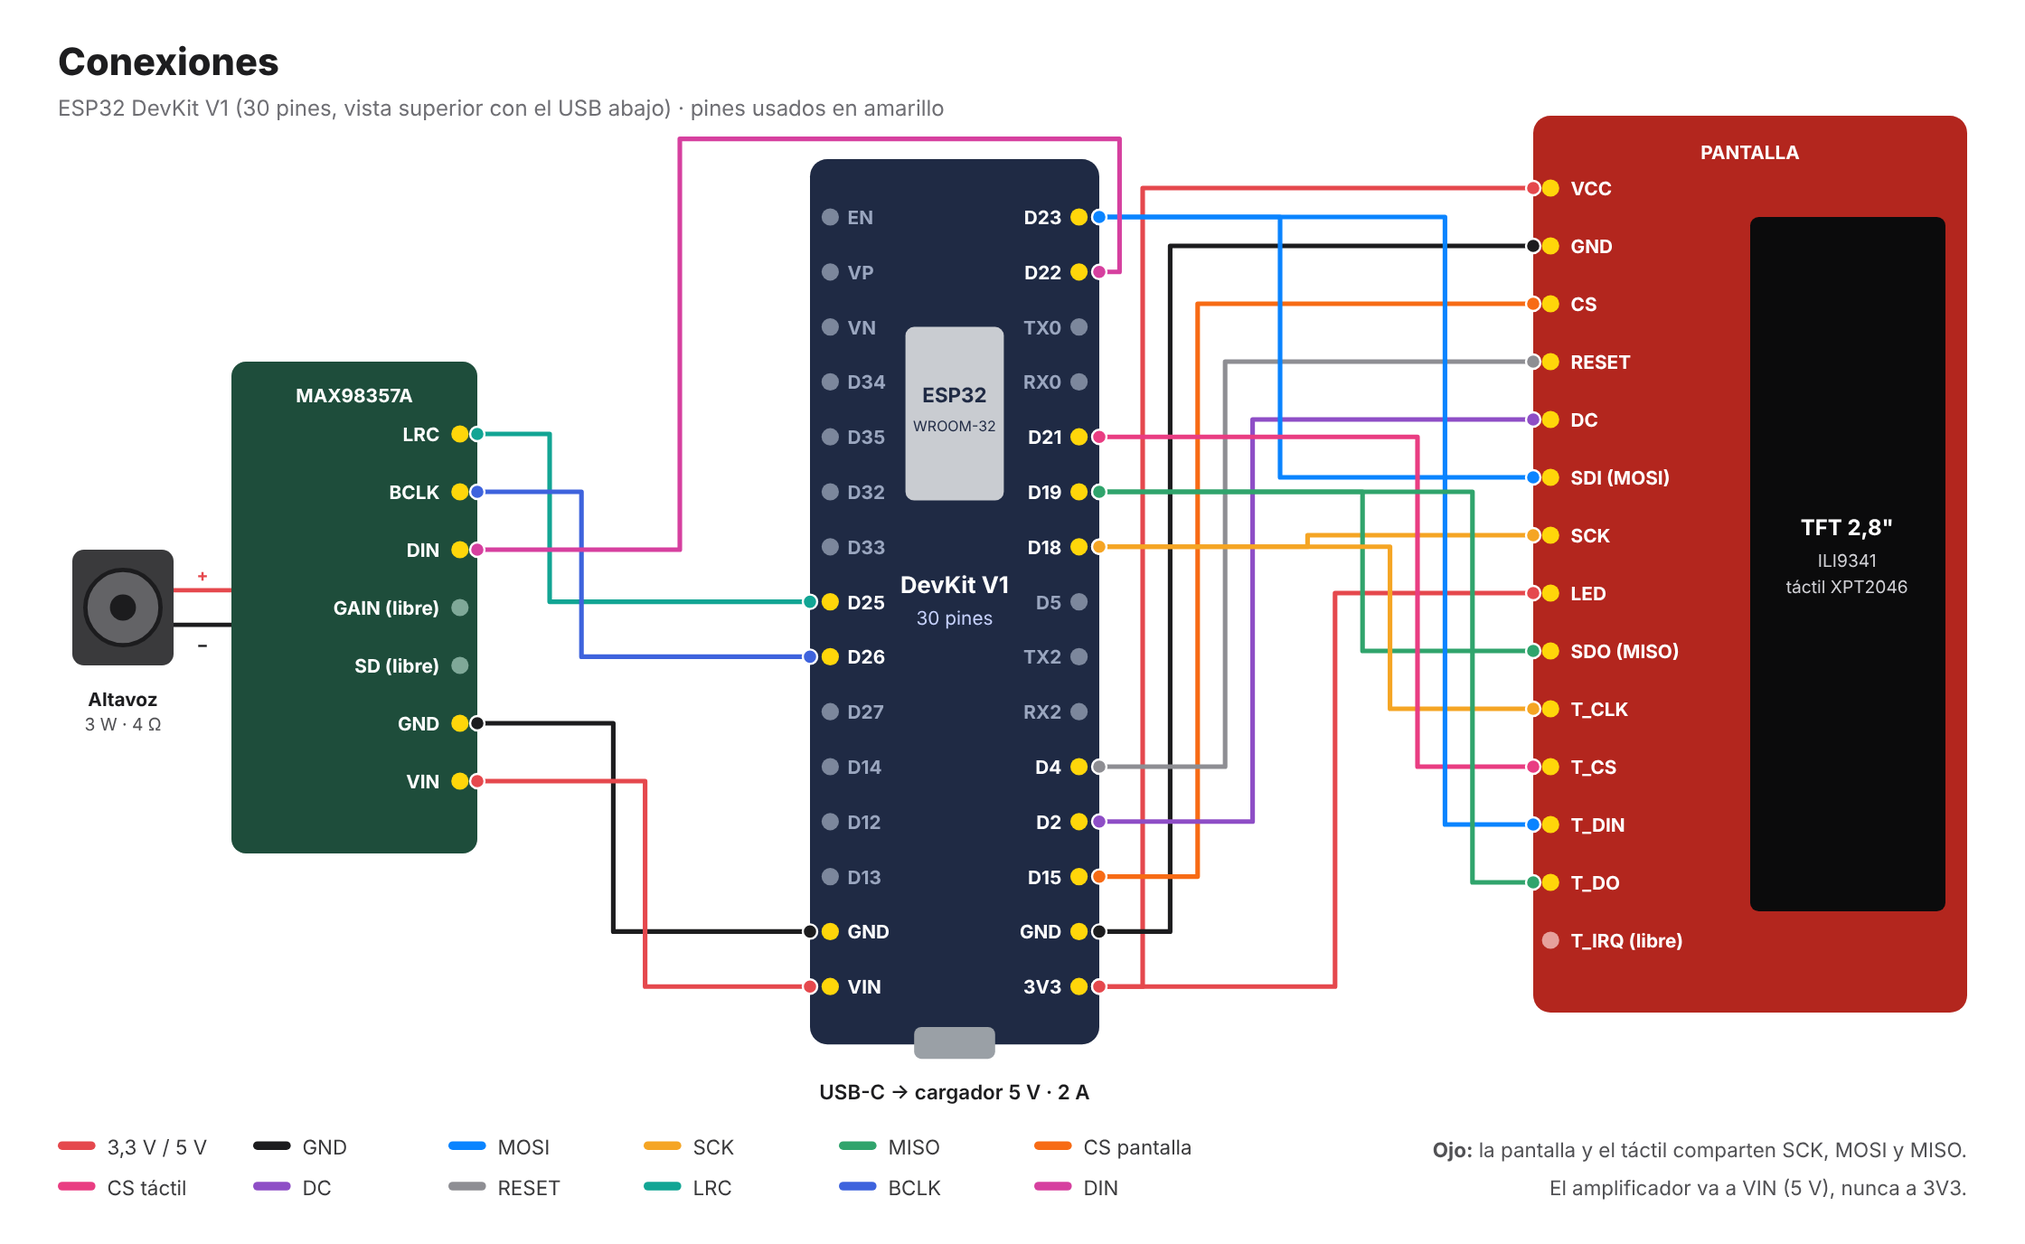
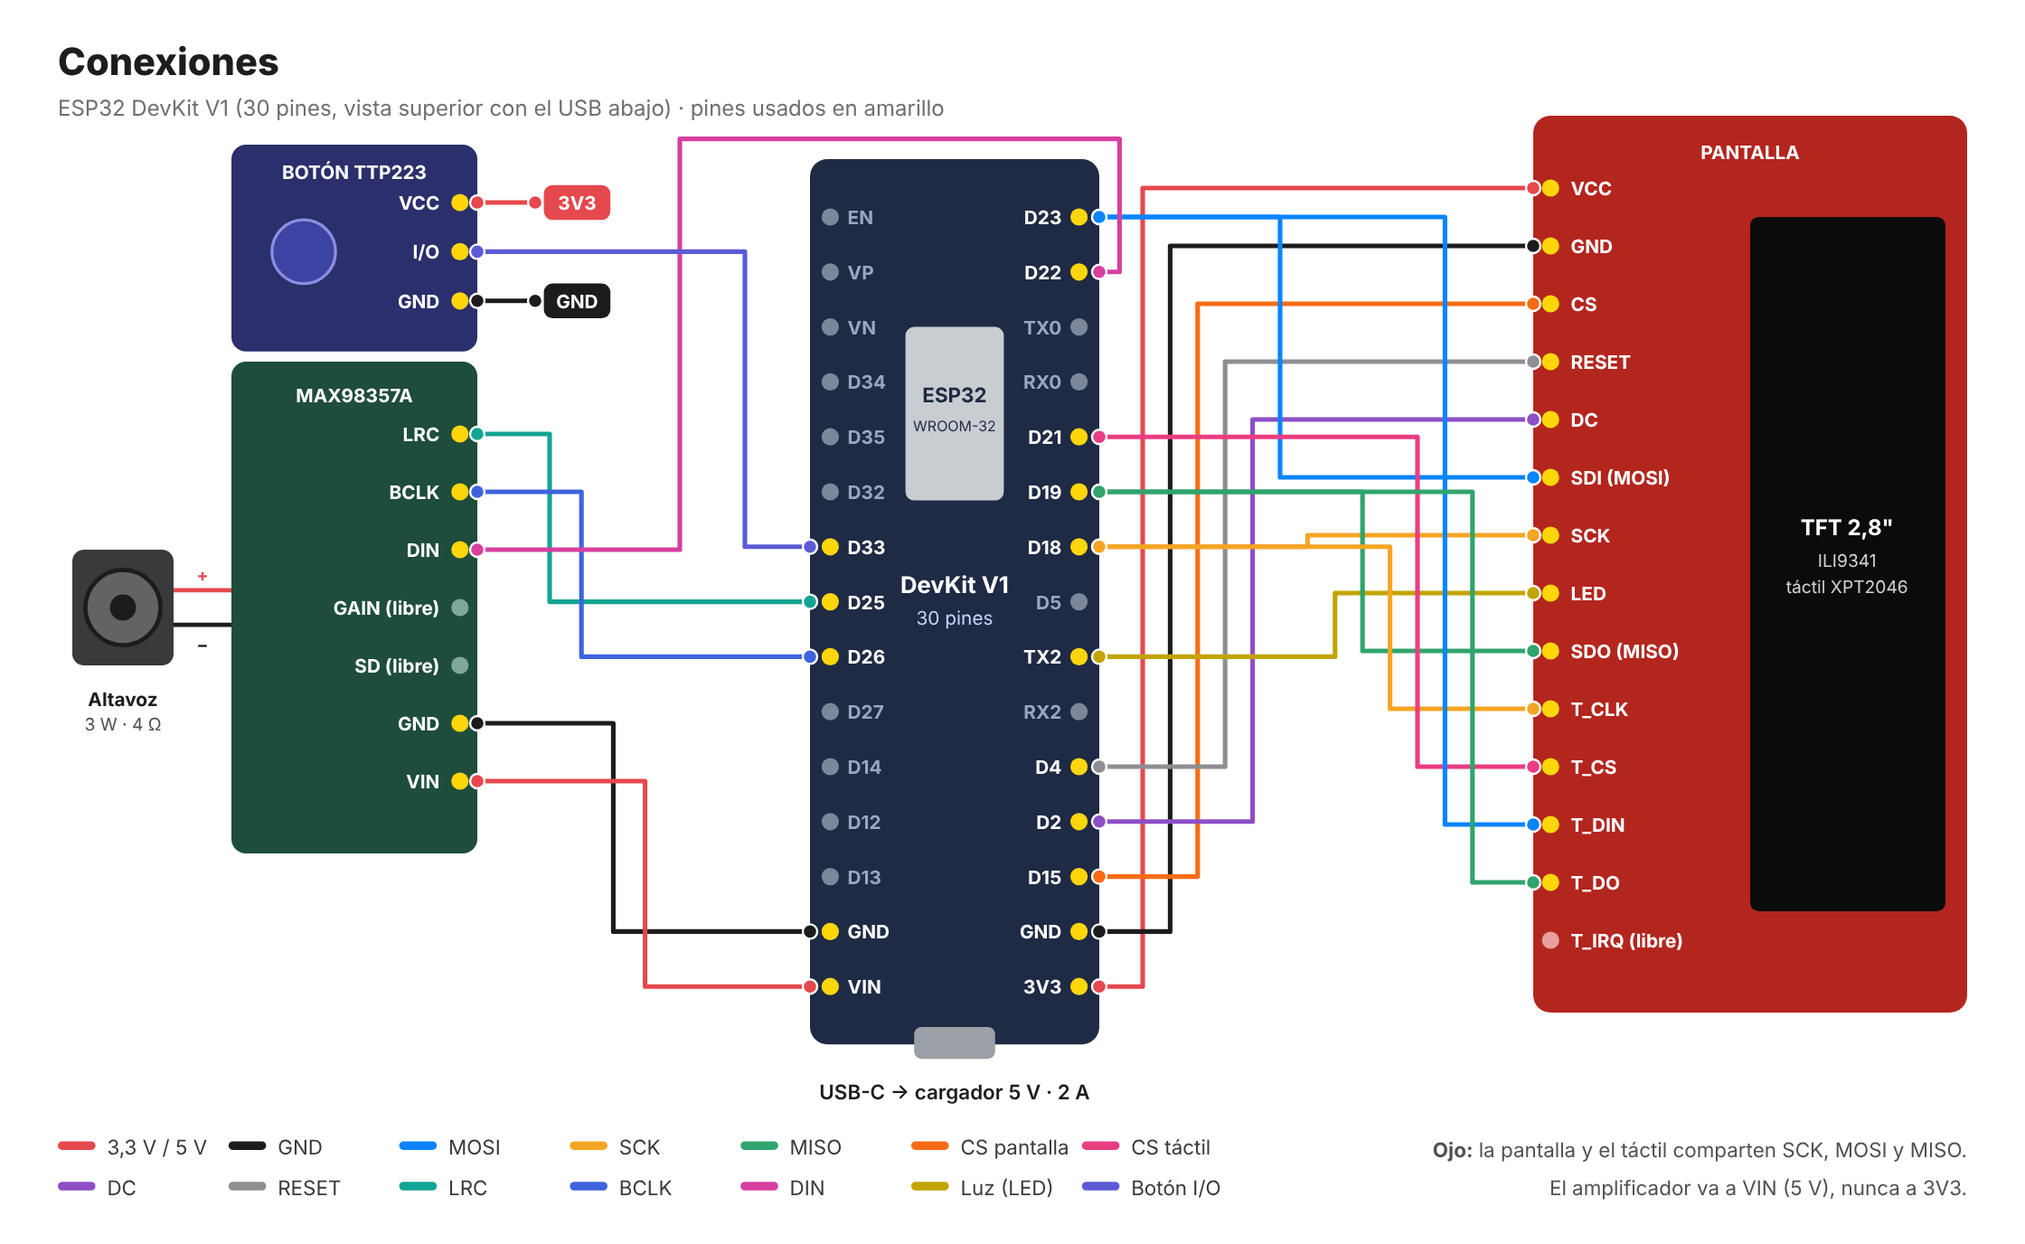
Modo noche y botón TTP223: la pantalla se apaga de 23:00 a 07:00, se enciende al tocarla o con el botón

diff --git a/server/simulador/sim.js b/server/simulador/sim.js
@@ -39,6 +39,7 @@
   const FW = {
     busDelay: 20000, timeDelay: 10000, touchCooldown: 500,
     wifiRetryDelay: 10000, avisoDelay: 4000, avisoBanner: 60000, httpTimeout: 6000,
+    nocheDesde: 2300, nocheHasta: 700, despierta: 30000,   // config.h: NOCHE_DESDE, NOCHE_HASTA, DESPIERTA_S
   };
   // Colores del firmware (tft.color565)
   const C = {
@@ -81,6 +82,7 @@
       this.lastWifiTry = now; this.lastAvisoCheck = now;
       this.ultimoAvisoId = ''; this.avisoTexto = ''; this.avisoHasta = 0;
       this.busy = false; this.avisoBusy = false; this.wifiPerdido = false;
+      this.pantallaOn = true; this.forzado = 0; this.nocheAnterior = false; this.despiertaHasta = 0;
       this.mensajeCentral('Conectando WiFi...', C.WHITE);
       log('Arranque: conectando WiFi');
     }
@@ -263,8 +265,53 @@
       this.net.backend.reproducir(ruta, doc);
     }
 
+    // ---- luz de la pantalla: modo noche y botón TTP223 (revisarLuz del firmware)
+    esNoche() {
+      const [h, m] = hhmm(Clock.now()).split(':').map(Number);
+      const t = h * 100 + m, a = FW.nocheDesde, b = FW.nocheHasta;
+      return a <= b ? t >= a && t < b : t >= a || t < b;
+    }
+    pantallaDeseada() {
+      if (this.avisoActivo()) return true;           // un aviso siempre se ve
+      if (this.forzado !== 0) return this.forzado > 0;
+      if (!this.esNoche()) return true;
+      return this.despiertaHasta !== 0 && Clock.now() < this.despiertaHasta;
+    }
+    encenderPantalla(on) {
+      if (on === this.pantallaOn) return;
+      this.pantallaOn = on;
+      log(on ? 'Pantalla encendida' : 'Pantalla apagada');
+      this.rect(0, 0, 320, 240, C.BG);
+      if (!on) return;
+      if (this.wifi) this.fetchBusData(); else this.drawSinWifi(true);
+      this.drawClock();
+      this.lastBusUpdate = Clock.now();
+    }
+    revisarLuz() {
+      if (this.state !== 'run') return;
+      const noche = this.esNoche();
+      if (noche !== this.nocheAnterior) { this.nocheAnterior = noche; this.forzado = 0; }
+      if (this.despiertaHasta !== 0 && Clock.now() >= this.despiertaHasta) this.despiertaHasta = 0;
+      this.encenderPantalla(this.pantallaDeseada());
+    }
+    boton() {   // toque en el TTP223
+      if (this.state !== 'run') return;
+      this.forzado = this.pantallaOn ? -1 : 1;
+      this.despiertaHasta = 0;
+      log(`Botón: ${this.forzado > 0 ? 'encender' : 'apagar'}`);
+      this.revisarLuz();
+    }
+
     touch(x) {
       if (this.state !== 'run' || Clock.now() - this.lastTouchTime <= FW.touchCooldown) return;
+      if (!this.pantallaOn) {   // con la pantalla apagada, el toque solo la enciende
+        this.lastTouchTime = Clock.now();
+        if (this.forzado < 0) this.forzado = 0;
+        this.despiertaHasta = Clock.now() + FW.despierta;
+        log('Toque con la pantalla apagada: se enciende 30 s');
+        this.revisarLuz();
+        return;
+      }
       const n = this.paradas.length; if (!n) return;
       const derecha = x > 160;
       this.paradaActual = derecha ? (this.paradaActual + 1) % n : (this.paradaActual - 1 + n) % n;
@@ -293,22 +340,23 @@
       }
       // WiFi caído: aviso en pantalla y reintento cada 10 s sin bloquear
       if (this.wifi && !wifiUp) { this.wifi = false; log('WiFi perdido', 'bad'); }
-      if (!this.wifi && !this.wifiPerdido) { this.wifiPerdido = true; this.drawSinWifi(); }
+      this.revisarLuz();
+      if (!this.wifi && !this.wifiPerdido) { this.wifiPerdido = true; if (this.pantallaOn) this.drawSinWifi(); }
       if (!this.wifi && now - this.lastWifiTry > FW.wifiRetryDelay) {
         this.lastWifiTry = now;
         if (wifiUp) { this.wifi = true; log('WiFi reconectado', 'good'); } else log('Reintentando WiFi...');
       }
-      if (this.wifi && this.wifiPerdido) { this.wifiPerdido = false; this.fetchBusData(); this.lastBusUpdate = now; }
+      if (this.wifi && this.wifiPerdido) { this.wifiPerdido = false; if (this.pantallaOn) this.fetchBusData(); this.lastBusUpdate = now; }
       if (now - this.lastBusUpdate > FW.busDelay) {
-        if (this.wifi) this.fetchBusData();
+        if (this.pantallaOn && this.wifi) this.fetchBusData();
         this.lastBusUpdate = now;
       }
-      if (now - this.lastTimeUpdate > FW.timeDelay) { this.drawClock(); this.lastTimeUpdate = now; }
+      if (now - this.lastTimeUpdate > FW.timeDelay) { if (this.pantallaOn) this.drawClock(); this.lastTimeUpdate = now; }
       if (this.wifi && now - this.lastAvisoCheck > FW.avisoDelay) { this.checkAviso(); this.lastAvisoCheck = now; }
       if (this.avisoHasta !== 0 && now >= this.avisoHasta) {
         this.avisoHasta = 0;
         this.borrarBanner();
-        if (this.wifi) this.fetchBusData();
+        if (this.pantallaOn && this.wifi) this.fetchBusData();
         this.lastBusUpdate = now;
       }
     }
@@ -667,6 +715,7 @@
   });
   $('tapL').addEventListener('click', () => device.touch(60));
   $('tapR').addEventListener('click', () => device.touch(260));
+  $('boton').addEventListener('click', () => device.boton());
 
   for (const el of document.querySelectorAll('input[name="mode"]')) el.addEventListener('change', () => setMode(el.value));
   for (const el of document.querySelectorAll('input[name="speed"]')) {
@@ -762,6 +811,10 @@
     $('stWifi').dataset.ok = device.wifi ? '1' : '0';
     $('stNext').textContent = device.state === 'run' ? `${Math.ceil(device.nextRefreshIn() / 1000)} s` : '—';
     $('stStop').textContent = device.paradas.length ? device.paradas[device.paradaActual] : '—';
+    const apagada = device.state === 'run' && !device.pantallaOn;
+    $('stLuz').textContent = device.state !== 'run' ? '—' : apagada ? (device.esNoche() ? 'apagada (noche)' : 'apagada (botón)')
+      : device.despiertaHasta ? `encendida ${Math.ceil((device.despiertaHasta - Clock.now()) / 1000)} s` : 'encendida';
+    $('apagada').hidden = !apagada;
     $('stAviso').textContent = device.avisoActivo() ? `banner ${Math.ceil((device.avisoHasta - Clock.now()) / 1000)} s` : 'ninguno';
   }
   setInterval(frame, 50);

diff --git a/server/simulador/index.html b/server/simulador/index.html
@@ -28,6 +28,7 @@
           <canvas id="tft" width="960" height="720" role="img" aria-label="Pantalla TFT de 320 por 240 píxeles. Pulsa a la izquierda o a la derecha para cambiar de parada."></canvas>
           <span class="half l" aria-hidden="true">◀</span><span class="half r" aria-hidden="true">▶</span>
           <span id="ripple" aria-hidden="true"></span>
+          <span id="apagada" hidden>Pantalla apagada · tócala para encenderla</span>
         </div>
       </div>
       <span class="label" aria-hidden="true">ILI9341 · 320×240</span>
@@ -38,11 +39,13 @@
       <button class="btn" id="tapL" type="button">◀ Toque izquierda</button>
       <button class="btn" id="tapR" type="button">Toque derecha ▶</button>
     </div>
+    <button class="btn" id="boton" type="button">● Botón TTP223 <small>(apaga o enciende la pantalla)</small></button>
 
     <dl class="status">
       <div><dt>WiFi</dt><dd id="stWifi">conectando</dd></div>
       <div><dt>Parada</dt><dd id="stStop">—</dd></div>
       <div><dt>Próximo refresco</dt><dd id="stNext">—</dd></div>
+      <div><dt>Pantalla</dt><dd id="stLuz">—</dd></div>
       <div><dt>Aviso</dt><dd id="stAviso">ninguno</dd></div>
       <div><dt>Datos</dt><dd id="stSource">Demo simulada</dd></div>
     </dl>
@@ -115,6 +118,11 @@
         <label class="check" for="ruleOn"><input type="checkbox" id="ruleOn" checked>Avisos activos</label>
       </div>
       <p class="hint">Igual que <code>server/avisos.py</code>: suena cuando llegada − minutos andando cae entre −30 s y +60 s, una sola vez por autobús. Aquí no se aplican la franja horaria ni el silencio nocturno.</p>
+    </section>
+
+    <section>
+      <h2>Modo noche</h2>
+      <p class="hint">De 23:00 a 07:00 la pantalla se apaga sola. Tocarla la enciende 30 s (sin cambiar de parada). El botón TTP223 la apaga o enciende cuando quieras, hasta el siguiente cambio de día a noche. Un aviso de salida siempre la enciende. En la demo, usa +5 min o ×60 para llegar a las 23:00.</p>
     </section>
 
     <section>

diff --git a/server/simulador/sim.css b/server/simulador/sim.css
@@ -66,6 +66,10 @@ h1 { font: 700 clamp(30px, 5vw, 44px)/1 var(--font-display); letter-spacing: .01
 #ripple { position: absolute; width: 46px; height: 46px; margin: -23px 0 0 -23px; border-radius: 50%; border: 2px solid rgb(255 255 255 / .7); opacity: 0; pointer-events: none; }
 #ripple.on { animation: ripple .45s ease-out; }
 @keyframes ripple { from { transform: scale(.3); opacity: 1; } to { transform: scale(1.4); opacity: 0; } }
+#apagada { position: absolute; inset: 0; display: grid; place-items: center; padding: 16px; text-align: center; font: 600 13px/1.4 var(--font-mono); color: rgb(255 255 255 / .38); pointer-events: none; }
+#apagada[hidden] { display: none; }
+#boton { justify-self: start; }
+#boton small { font-weight: 400; opacity: .75; }
 .half { position: absolute; top: 6px; font: 600 11px/1 var(--font-mono); color: rgb(255 255 255 / .28); pointer-events: none; }
 .half.l { left: 8px; } .half.r { right: 8px; }
 

diff --git a/firmware/dashboard_emt/config.h b/firmware/dashboard_emt/config.h
@@ -16,3 +16,14 @@
 
 // Pines (ver docs de cableado en el README)
 // Pantalla: CS 15, DC 2, RST 4, táctil CS 21 · Audio I2S: BCLK 26, LRC 25, DIN 22
+
+// Luz de la pantalla y botón táctil TTP223 (ver docs/MONTAJE.md)
+#define PIN_LUZ    17    // pin LED de la pantalla (TX2 en la placa); -1 si sigue a 3V3
+#define PIN_BOTON  33    // salida I/O del TTP223 (D33); -1 si no lo montas
+
+// Modo noche: la pantalla se apaga sola en esta franja (HHMM, hora de Madrid).
+// Tocar la pantalla la enciende DESPIERTA_S segundos; el botón la enciende o
+// apaga cuando quieras (hasta el siguiente cambio de día a noche o al revés).
+#define NOCHE_DESDE 2300
+#define NOCHE_HASTA 700
+#define DESPIERTA_S 30

diff --git a/docs/MONTAJE.md b/docs/MONTAJE.md
@@ -2,7 +2,7 @@
 
 Del paquete de componentes a la pantalla funcionando en la carcasa. Tiempo estimado: **2-3 horas** la primera vez.
 
-<p align="center"><img src="img/conexiones.png" alt="Diagrama de conexiones: ESP32, pantalla TFT y amplificador MAX98357A" width="100%"></p>
+<p align="center"><img src="img/conexiones.png" alt="Diagrama de conexiones: ESP32, pantalla TFT, amplificador MAX98357A y botón TTP223" width="100%"></p>
 
 ---
 
@@ -16,6 +16,7 @@ Precios orientativos en España (octubre de 2026). En AliExpress suelen salir a 
 | ☐ | **Pantalla TFT 2,8" táctil** | 1 | "TFT 2.8 SPI ILI9341 **XPT2046** touch", la placa roja de 14 pines (≈ 86 × 50 mm). Que diga **ILI9341** y **XPT2046** | 10-12 € |
 | ☐ | **Amplificador I2S MAX98357A** | 1 | "MAX98357A I2S amplificador 3W". Suele venir con los pines **sin soldar** | 4-7 € |
 | ☐ | **Altavoz** | 1 | "Altavoz 3W 4 ohm 40 mm" (o 28-50 mm según el hueco de la carcasa) | 2-4 € |
+| ☐ | Botón táctil **TTP223** (opcional) | 1 | "TTP223 módulo táctil capacitivo". Para apagar y encender la pantalla | 1-2 € |
 | ☐ | **Cables Dupont hembra-hembra** | 1 pack | 20 cm, pack de 40 (sobran) | 3-5 € |
 | ☐ | **Cargador USB 5 V · 2 A + cable USB-C de datos** | 1 | El cable tiene que ser **de datos**, no solo de carga (para programar) | 0-10 € |
 | ☐ | Servidor (Radxa ROCK 3C / Raspberry Pi) | 1 | Cualquier Linux siempre encendido en tu red. **No hace falta con la opción B** (Cloudflare, gratis) | ya lo tienes / 0 € |
@@ -55,13 +56,15 @@ Son 13 cables. La pantalla y el táctil **comparten** reloj y datos (SCK, MOSI, 
 | 5 | DC | → | D2 | morado |
 | 6 | SDI (MOSI) | → | D23 | azul |
 | 7 | SCK | → | D18 | amarillo |
-| 8 | LED | → | 3V3 | rojo |
+| 8 | LED | → | TX2 (GPIO 17) | amarillo oscuro |
 | 9 | SDO (MISO) | → | D19 | verde |
 | 10 | T_CLK | → | D18 *(compartido con 7)* | amarillo |
 | 11 | T_CS | → | D21 | rosa |
 | 12 | T_DIN | → | D23 *(compartido con 6)* | azul |
 | 13 | T_DO | → | D19 *(compartido con 9)* | verde |
 | — | T_IRQ | | sin conectar | |
+
+> El pin **LED** es la luz de la pantalla. Va a TX2 para que el ESP32 la pueda apagar de noche. Si prefieres que esté siempre encendida, conéctalo a 3V3 y pon `#define PIN_LUZ -1` en `config.h`.
 
 **Comprobación:** conecta el USB. La pantalla debe encenderse y mostrar *"Conectando WiFi..."*. Si se queda en blanco, revisa VCC, GND, CS, DC y RESET.
 
@@ -117,7 +120,28 @@ Volumen: en el firmware, `volumen = 0.6` (de 0.0 a 1.0). Para más potencia cone
 
 ---
 
-## 7. Montar en la carcasa
+## 7. Botón TTP223 y modo noche (opcional)
+
+La pantalla se apaga sola de **23:00 a 07:00** (`NOCHE_DESDE` y `NOCHE_HASTA` en `config.h`). De noche, tocar la pantalla la enciende **30 s** sin cambiar de parada. Un aviso de salida siempre la enciende. Esto funciona sin el botón.
+
+El botón TTP223 es un sensor táctil: se activa con el dedo, incluso a través de una pieza fina de plástico, así que se puede esconder dentro de la carcasa. Cada toque **apaga o enciende la pantalla** cuando quieras. Lo que elijas con el botón dura hasta el siguiente cambio de día a noche (o al revés); después vuelve al modo automático.
+
+| # | TTP223 | → | ESP32 |
+|:-:|---|:-:|---|
+| 1 | VCC | → | 3V3 *(compartido con la pantalla)* |
+| 2 | I/O (o SIG) | → | D33 |
+| 3 | GND | → | GND |
+
+- Con el USB desconectado. Para compartir 3V3 y GND, usa un cable en "Y" o la mini protoboard.
+- **Nunca a VIN (5 V):** la señal I/O iría a 5 V y el ESP32 solo admite 3,3 V.
+- No hay que soldar ni configurar nada en el módulo: de fábrica da un pulso mientras lo tocas, que es lo que espera el firmware.
+- Si no lo montas, déjalo así: el pin tiene una resistencia interna que evita toques fantasma. O pon `#define PIN_BOTON -1`.
+
+**Prueba:** toca el botón. En el Monitor Serie verás `Boton: apagar` y la pantalla se apagará; vuelve a tocarlo para encenderla.
+
+---
+
+## 8. Montar en la carcasa
 
 Medidas para diseñar la carcasa:
 
@@ -126,6 +150,7 @@ Medidas para diseñar la carcasa:
 | Pantalla | 86 × 50 × 9 mm (área visible ≈ 58 × 43 mm) | El marco debe tapar solo el borde rojo, no la zona táctil |
 | ESP32 DevKit | 52 × 28 mm (+ pines) | Detrás de la pantalla, con el **USB accesible** desde fuera |
 | MAX98357A | 18 × 18 mm | Junto al altavoz |
+| TTP223 | 15 × 11 mm | Pegado por dentro de una pared fina de la carcasa (≤ 2 mm), donde quieras "el botón" |
 | Altavoz 40 mm | Ø 40 × 20 mm | Mirando hacia fuera, con una rejilla o huecos entre ladrillos |
 
 - Sujeta las placas con cinta de doble cara o masilla, sin apretar los cables.
@@ -134,7 +159,7 @@ Medidas para diseñar la carcasa:
 
 ---
 
-## 8. Si algo falla
+## 9. Si algo falla
 
 | Síntoma | Causa probable | Solución |
 |---|---|---|
@@ -146,5 +171,7 @@ Medidas para diseñar la carcasa:
 | "Clave incorrecta (API_KEY)" | Opción B: `API_KEY` de `secrets.h` distinta de la del Worker | Copia la clave de nuevo o genera otra con `wrangler secret put API_TOKEN` |
 | "Sin conexion al servidor" con `https://` | Certificado o dirección del Worker | Revisa `SERVER_ROOT`; para diagnosticar, prueba un momento con `TLS_SIN_VERIFICAR` |
 | "EMT no disponible" | La EMT no responde | Se recupera solo; mientras tanto muestra el último dato (punto naranja) |
+| La pantalla se queda negra pero el ESP32 funciona | Modo noche o apagada con el botón | Tócala (se enciende 30 s) o toca el botón; revisa el cable LED → TX2 |
+| La pantalla se apaga y enciende sola | Botón mal conectado o a 5 V | Revisa I/O → D33 y VCC → 3V3; si no hay botón, `PIN_BOTON -1` |
 | El ESP32 se reinicia al sonar | Cargador flojo | Usa uno de **2 A** |
 | Zumbido o ruido | Cables de audio largos | Acorta los cables BCLK, LRC y DIN, o baja el volumen |

diff --git a/README.md b/README.md
@@ -68,7 +68,7 @@ Un simulador en el navegador para probar el sistema **sin montar el hardware**. 
 
 - **EMT en directo** (el modo de la [demo publicada](https://ricardoedreirapenas.github.io/emt-valencia-smart-display/)). Llegadas reales de cinco paradas de València, tiempo real de Open-Meteo y avisos de salida sobre datos reales. Como la EMT no deja que otras webs le pidan datos, pasan por un intermediario propio ([`proxy-demo/`](proxy-demo/), un Cloudflare Worker) que solo atiende esas cinco paradas y guarda cada respuesta 20 s: la EMT recibe como mucho 5 consultas cada 20 s, haya los visitantes que haya.
 - **Tu servidor.** Abre `http://<ip-del-servidor>:5000/simulador/` y usa tu propio servidor, tus paradas y tu configuración, como el ESP32.
-- **Demo simulada.** Servidor simulado (misma lógica que `app.py` y `avisos.py`) con el tiempo acelerable (×10, ×60) y escenarios a un clic: bus llegando, sin servicio, línea desviada, EMT caída, servidor apagado, WiFi caído, aviso de salida con voz y los siete iconos del tiempo, de día y de noche.
+- **Demo simulada.** Servidor simulado (misma lógica que `app.py` y `avisos.py`) con el tiempo acelerable (×10, ×60) y escenarios a un clic: modo noche y botón TTP223, bus llegando, sin servicio, línea desviada, EMT caída, servidor apagado, WiFi caído, aviso de salida con voz y los siete iconos del tiempo, de día y de noche.
 
 **Lo que encontró antes de montar nada**, ya corregido en el firmware y el servidor:
 
@@ -126,7 +126,8 @@ El audio se genera en el servidor con [Piper](https://github.com/OHF-Voice/piper
 | ESP32 DevKit V1 (WROOM, 30 pines) | No necesita PSRAM: el audio se lee en streaming |
 | Pantalla TFT SPI ILI9341 2,4" o 2,8" con táctil XPT2046 | |
 | Amplificador I2S MAX98357A + altavoz 3 W / 4 Ω | Opcional, para los avisos de voz |
-| Radxa ROCK 3C, Raspberry Pi o cualquier Linux | Servidor siempre encendido |
+| Botón táctil TTP223 | Opcional: apaga y enciende la pantalla |
+| Radxa ROCK 3C, Raspberry Pi o cualquier Linux | Solo con la opción A (servidor en casa) |
 | Cargador USB 5 V / 2 A | 2 A por los picos del altavoz |
 | Cables Dupont y carcasa de bloques | |
 
@@ -141,7 +142,8 @@ El audio se genera en el servidor con [Piper](https://github.com/OHF-Voice/piper
 
 | TFT | ESP32 |
 |---|---|
-| VCC, LED | 3V3 |
+| VCC | 3V3 |
+| LED (luz) | GPIO 17 (TX2) |
 | GND | GND |
 | CS | GPIO 15 |
 | RESET | GPIO 4 |
@@ -164,8 +166,18 @@ El audio se genera en el servidor con [Piper](https://github.com/OHF-Voice/piper
 | DIN | GPIO 22 |
 | SD, GAIN | sin conectar |
 
+**Botón (TTP223)**
+
+| Módulo | ESP32 |
+|---|---|
+| VCC | 3V3 |
+| GND | GND |
+| I/O | GPIO 33 |
+
 </td></tr>
 </table>
+
+**Modo noche:** de 23:00 a 07:00 la pantalla se apaga sola y deja de pedir datos. Tocarla la enciende 30 s, el botón la apaga o enciende cuando quieras y un aviso de salida siempre la enciende. Se configura en `config.h`.
 
 ---
 
